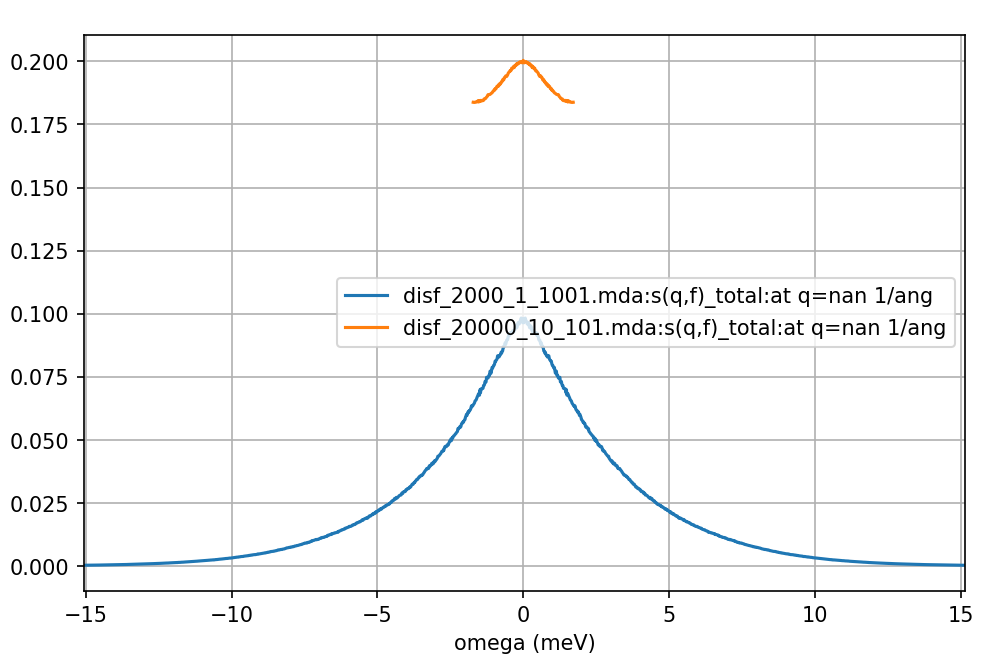
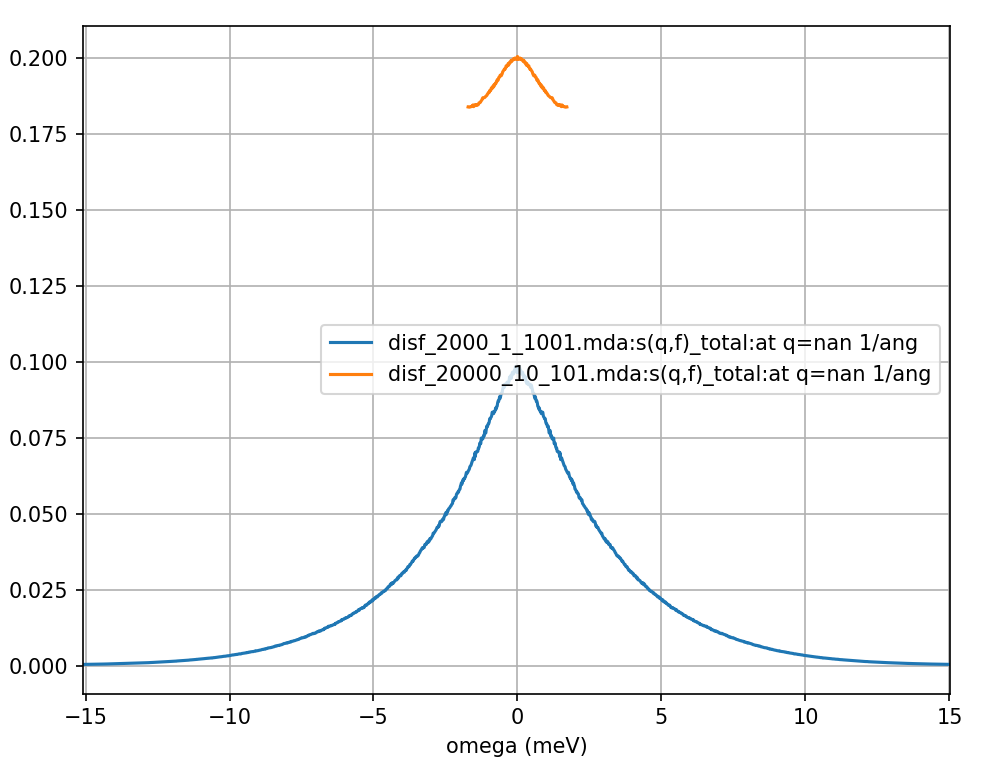
updated time step DOS section

diff --git a/Doc/pages/H_conv.rst b/Doc/pages/H_conv.rst
@@ -174,10 +174,10 @@ Simulation Time Step
 Dynamic Incoherent Structure Factor
 -----------------------------------
 The DISF (also the DCSF) calculation probes the dynamics of the MD trajectory at
-different distances and time scales. For example, for smaller :math:`q` values
-correspond to larger wavelength and time scales while larger :math:`q`-values
-correspond to smaller distances and time scales. To obtain accurate
-DCSF results we therefore need much smaller time steps for the larger
+different time scales. For example, smaller values of :math:`q`
+correspond to larger time scales while larger values of :math:`q`
+correspond to smaller time scales. To obtain accurate
+DISF results we therefore need smaller time steps for the larger
 values of :math:`q`.
 
 .. _figure-timestep-inc-fqt:
@@ -188,7 +188,7 @@ values of :math:`q`.
    :height: 9.393cm
 
    The incoherent intermediate scattering function calculated for 120 ps
-   from a the same MD simulation of liquid argon but with positions
+   from the same MD simulation of liquid argon but with positions
    sampled every 120 fs and 1.2 ps shown in blue and orange respectively.
 
 .. _figure-timestep-inc-sqw:
@@ -204,28 +204,69 @@ values of :math:`q`.
    but with positions sampled every 120 fs and 1.2 ps shown in blue and
    orange respectively.
 
-Here we run a calculation with a correlation frames setting of (0, 2000, 1, 1001)
-and another with a correlation frames setting of (0, 20000, 9, 101). The
-MD simulation was sampled every 120 fs so by using a `in step of` setting
-of 10 we are effectively sampling the MD trajectory every 1.2 ps. For
+Here we run DISF calculations with a correlation frames setting of (0, 2000, 1, 1001)
+and another with a correlation frames setting of (0, 20000, 10, 101) and set :math:`q` to 42 nm\ :sup:`-1`. The
+MD simulation was sampled every 120 fs so by using a ``in step of`` setting
+of 10 we are effectively sampling the trajectory every 1.2 ps. For
 each frame of the correlation function the first calculation averages
-over 1000 frames while this second averages over 1900 frames. The total
-time of the DISF of both calculations will be the same. In both :math:`q` was
-set to 42 nm-1.
+over 1000 frames while the second averages over 1900 frames. The total
+time of the DISF of both calculations will be the same.
 
-As you can see from the :numref:`figure-timestep-inc-fqt`, for larger values of :math:`q` the
-intermediate scattering function decays quickly, showing that there is little
-correlation between atom positions which are displaced by larger amounts.
-We can see that the second trajectories time steps were too long and
+As you can see from the :numref:`figure-timestep-inc-fqt` for this larger value of :math:`q` the
+intermediate scattering function decays quickly.
+We can see that the second calculation (orange in :numref:`figure-timestep-inc-fqt` and :numref:`figure-timestep-inc-sqw`) time steps were too long and
 did not sufficiently sample the intermediate scattering function which
-had decays already decayed to zero by the second time step. Looking at
-:numref:`figure-timestep-inc-sqw` we how poor the
+had already decayed to zero by the second time step. Looking at
+:numref:`figure-timestep-inc-sqw` we can see how poor the sampling of the
+intermediate scattering function was. The resulting DISF (orange curve in :numref:`figure-timestep-inc-sqw`) is
+severely overestimated, does not provide the higher frequency results,
+and does not follow the same qualitatively behaviour as first calculation
+(blue curve).
 
 Density of States
 -----------------
-The density of states is calculated by taking a Fourier transform the
-velocity autocorrelation function. In MDANSE velocity information from
+The density of states (DOS) is calculated by taking a Fourier transform the
+velocity autocorrelation function (VACF). In MDANSE velocity information from
 your MD data files can be saved into the MDANSE trajectory file and used
-in any subsequent analysis calculation. In some cases your may not
+in any subsequent analysis calculation. In some cases, you may not
 have saved the velocity data or you may want to recalculate the velocities
-using from its positions. In the DOS calculation
+from its positions. In the DOS job you have the option to calculate
+velocities from the numerical derivatives of the atomic positions. The
+accuracy of these velocities will be highly dependent on the time step
+of the trajectory.
+
+
+.. _figure-timestep-vacf:
+
+.. figure:: ./Pictures/time_step_conv_vacf.png
+   :align: center
+   :width: 11.748cm
+   :height: 9.393cm
+
+   Velocity autocorrelation function using velocities determine by
+   numerical derivatives of atomic positions from a the same MD
+   simulation of liquid argon but with positions sampled every 120 fs and
+   1.2 ps shown in blue and orange respectively.
+
+.. _figure-timestep-dos:
+
+.. figure:: ./Pictures/time_step_conv_dos.png
+   :align: center
+   :width: 11.748cm
+   :height: 9.393cm
+
+   The density of states calculated from a Fourier
+   transform of the above velocity autocorrelation function calculated
+   from a the same MD simulation of liquid argon but with positions
+   sampled every 120 fs and 1.2 ps shown in blue and orange respectively.
+
+Here we run DOS calculations with a correlation frames setting of (0, 2000, 1, 1001)
+and another with a correlation frames setting of (0, 20000, 10, 101). We use
+an interpolation order setting of 3 so that velocities will be determined
+by a numerical derivative of the atomic positions. :numref:`figure-timestep-vacf`
+shows that the numerical derivative for the calculation which used the
+``in step of`` setting of 10 (orange curves in :numref:`figure-timestep-vacf` and :numref:`figure-timestep-dos`),
+had caused a severely underestimated VACF value at :math:`t=0`. Additionally the longer time step means that it misses the
+trough seen in the blue curve of :numref:`figure-timestep-vacf` between 0
+and 2000 fs. The resulting DOS (orange curve in :numref:`figure-timestep-dos`) does not provide the higher frequency
+results, has a peak at an incorrect position, and falls off towards zero far to early.